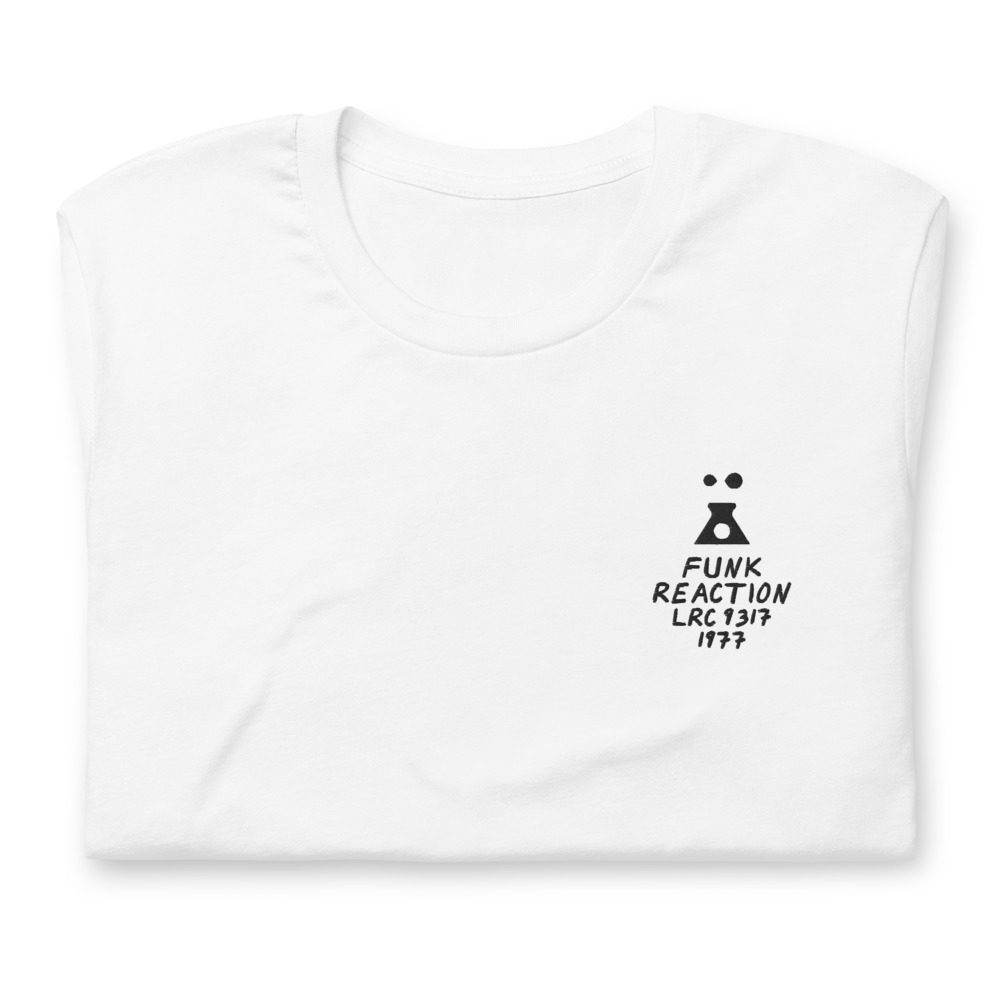
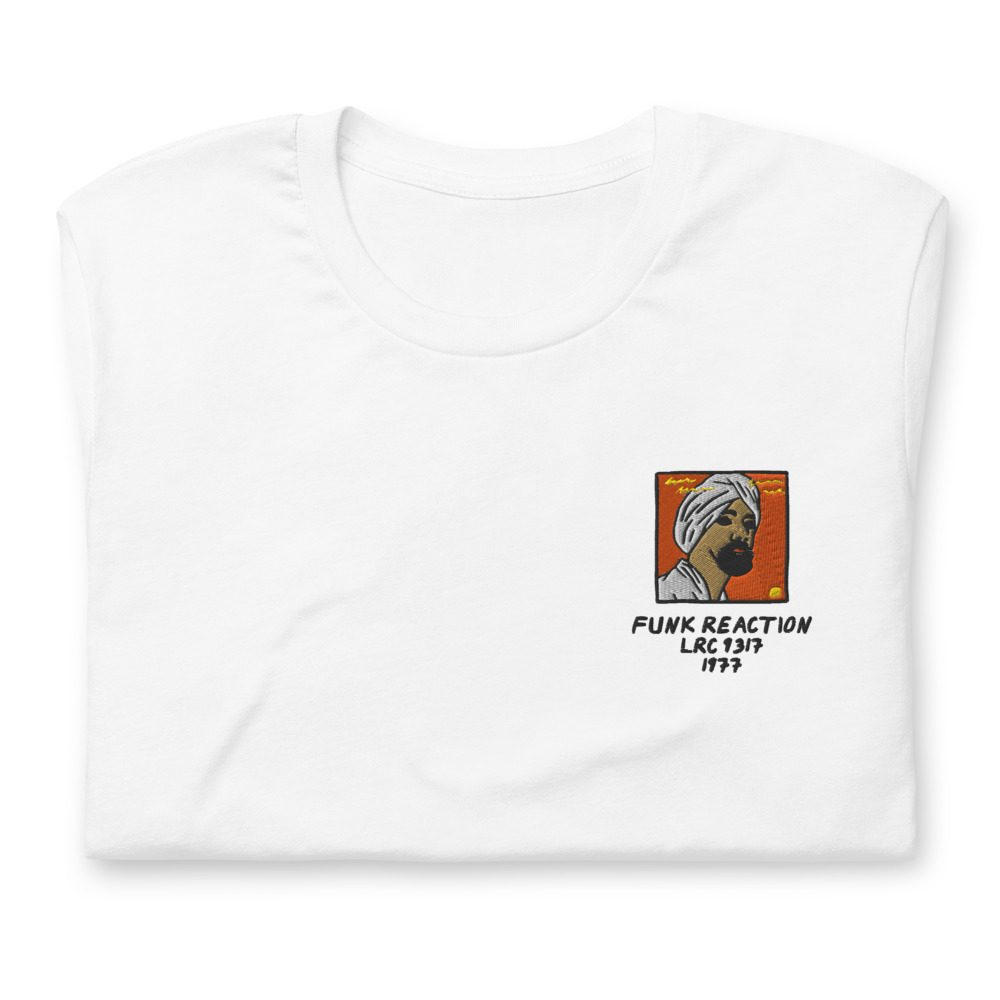
Deploy build from source a1e35c2

Changed region(s): [[0.62, 0.465, 0.806, 0.682]]

diff --git a/about.html b/about.html
@@ -49,7 +49,7 @@
 <p>I’ve been chasing both ever since: that warm 5 o’clock hour, and records that hold together from side A to side B.</p>
 <h2>Some of what I play</h2>
 <p>Random picks, in no order. Ask me tomorrow and it’d be a different list.</p>
-<p class="picks">Lady Wray, 50 Cent, Brick, Marvin Gaye, Isabelle Antena, Ronnie Foster, Peggy Gou, Dorothy Ashby, The Meters, Evinha, Unity &amp; The Downbeats, Odyssey, Say She She, The Main Ingredient, Greenflow, Raw Silk, Cher, Oby Onyioha, BADBADNOTGOOD, Syl Johnson, The Blackbyrds, Amerie, berlioz &amp; Ted Jasper, SAULT, Supreme Jubilees, NEL OLIVER, Scissor Sisters, strongboi.<br>
+<p class="picks">strongboi, Richie Havens, SAULT, Helene Smith, New Order, George McCrae, Prince, Sly &amp; The Family Stone, Antena, The Brothers Johnson, Dorothy Ashby, The Blackbyrds, Cornelius Brothers &amp; Sister Rose, Isabelle Antena, Whitney Houston, Say She She, Isaac Hayes, Minnie Riperton, Evinha, David Bowie, Oby Onyioha, Papa Bear &amp; His Cubs, Fleetwood Mac, Volta Jazz, Jessie Ware, Syl Johnson, Nohelani Cypriano, Janet Jackson.<br>
 <span class="m">Shuffled <time datetime="2026-10-20">2026-10-20</time>.</span></p>
 <p>A few labels I dig through: Athens of the North, Numero Group, Salsoul, Awesome Tapes from Africa, Jazz Dispensary.</p>
 <h2>The shelf</h2>

diff --git a/shop/g-40.html b/shop/g-40.html
@@ -68,7 +68,7 @@
 <h1>Lonnie Smith – Funk Reaction</h1>
 <p class="m">LP · Lester Radio Corporation LRC 9317 · 1977<br>
 Ungraded, checked before it ships</p>
-<p class="m">Comes with its own shirt: a white tee embroidered on the chest with its title, catalog number and year in my handwriting. Pick a size at checkout. It’s made for you and ships on its own.</p>
+<p class="m">Comes with its own shirt: a white tee embroidered on the chest with my drawing of the cover over its title, catalog number and year. Pick a size at checkout. It’s made for you and ships on its own.</p>
 <p><img class="shirt-pic" src="img/g-40-shirt-folded.jpg" width="1000" height="1000" loading="lazy" alt="Its shirt, folded: a white tee with the record embroidered on the chest"></p>
 <p><img class="shirt-pic" src="img/g-40-shirt-wrinkled.jpg" width="1000" height="1000" loading="lazy" alt="Its shirt, wrinkled: a white tee with the record embroidered on the chest"></p>
 <p><a href="https://buy.stripe.com/28E7sN4R8aLX3b8cCK9R61R">Buy</a> <span class="m">$114</span></p>
